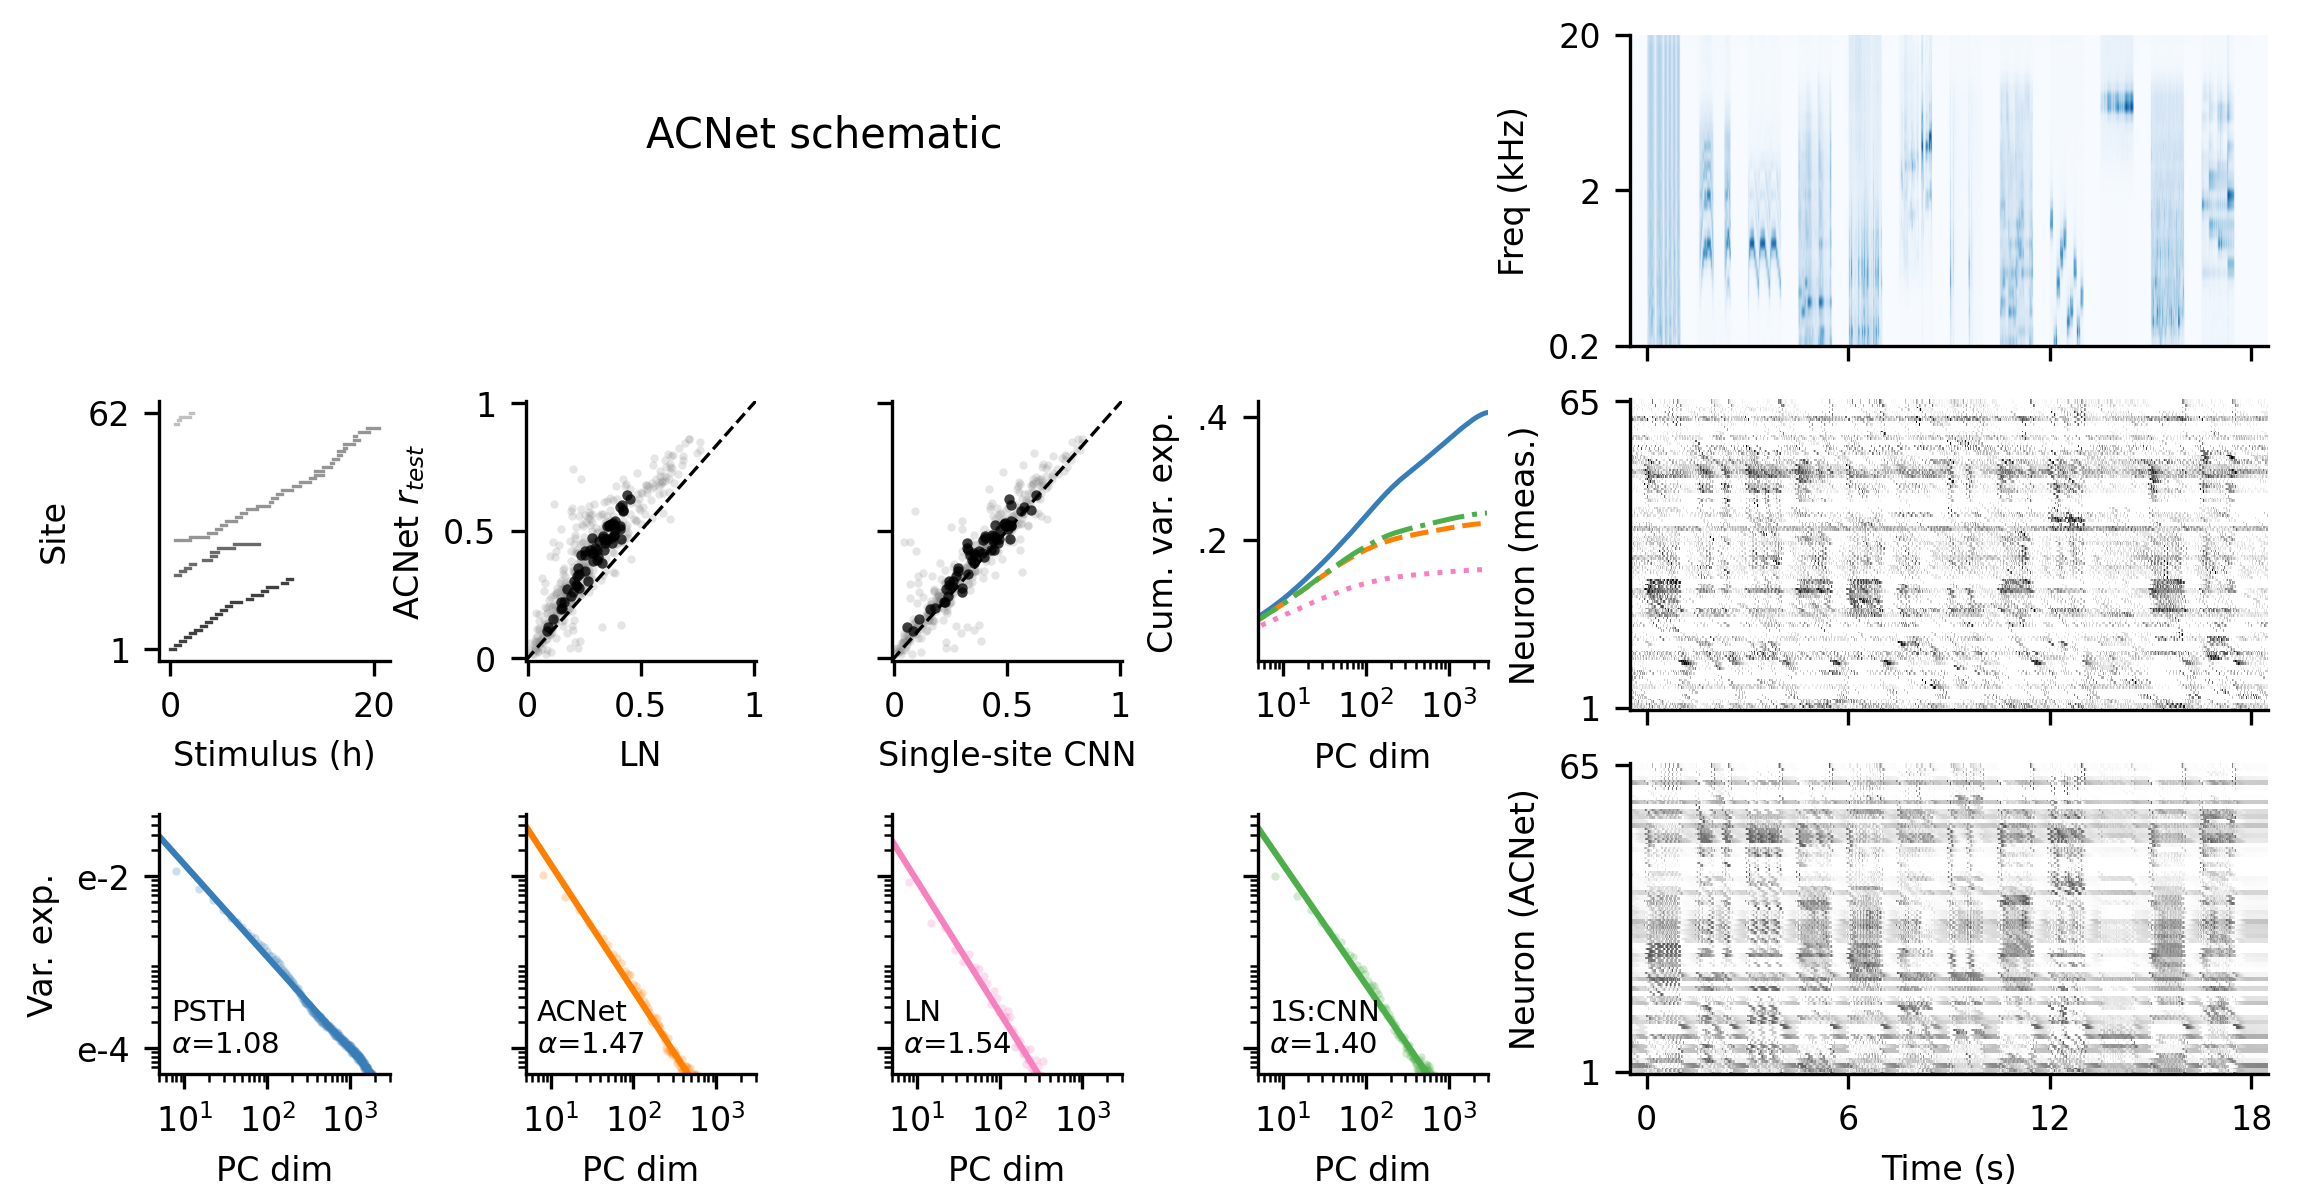
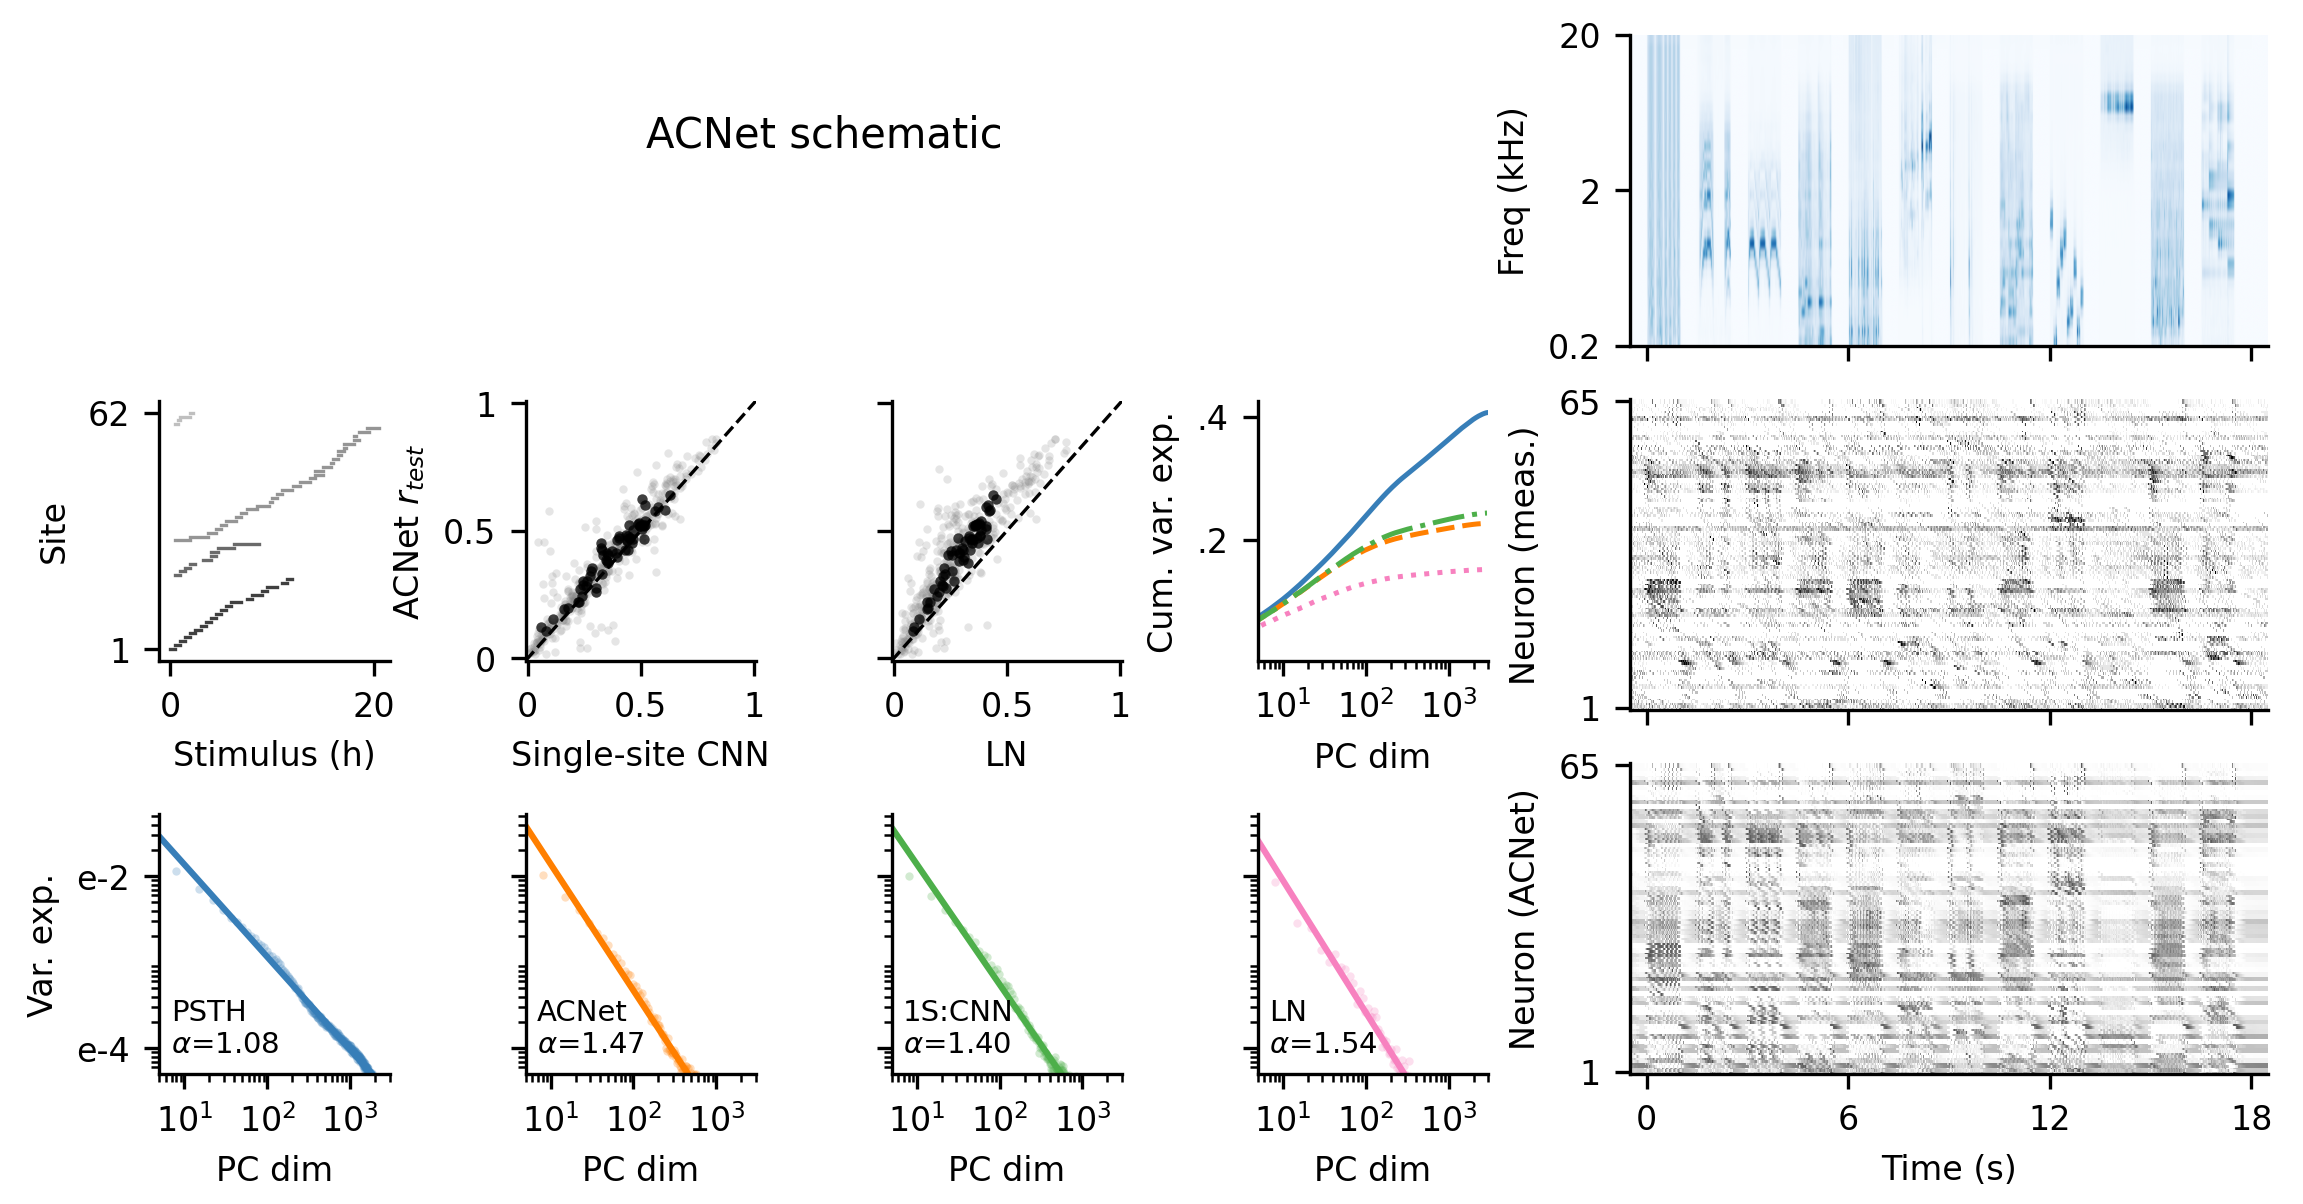
Fig1: order the baseline panels CNN then LN, as in the manuscript
Swaps the single-site CNN and LN panels in both the r_test row and the
power-law row. The ACNet r_test y-label moves to whichever of the pair is now
leftmost; colours still track the model, not the position.

Claude-Session: https://claude.ai/code/session_01XjWeMXuc2q8dYeNcnzyg3T

diff --git a/manuscript/fig1.py b/manuscript/fig1.py
@@ -165,9 +165,9 @@ demo_x = left_x[3] + PANEL_W_CM + BLOCK_GAP_CM
 
 ax_schema = add_axes_cm(fig, left_x[0], row_schema_y,
                         4 * PANEL_W_CM + 3 * GAP_X_CM, SCHEMA_H_CM)
-ax_coverage, ax_rtest_ln, ax_rtest_cnn, ax_cumvar = [
+ax_coverage, ax_rtest_cnn, ax_rtest_ln, ax_cumvar = [
     add_axes_cm(fig, x, row_summary_y, PANEL_W_CM, PANEL_H_CM) for x in left_x]
-ax_pca_neural, ax_pca_multisite, ax_pca_ln, ax_pca_cnn = [
+ax_pca_neural, ax_pca_multisite, ax_pca_cnn, ax_pca_ln = [
     add_axes_cm(fig, x, row_pca_y, PANEL_W_CM, PANEL_H_CM) for x in left_x]
 ax_demo_gtg, ax_demo_true, ax_demo_pred = [
     add_axes_cm(fig, demo_x, FIG_H_CM - MARGIN_T_CM - (i + 1) * DEMO_H_CM - i * DEMO_GAP_Y_CM,
@@ -196,10 +196,10 @@ SKIP_N = rtest['skip_n']
 MRK = 4
 rtest_ticks, rtest_lim = [0, .5, 1], [-0.01, 1.01]
 for ax, base, base_mu, resnet, resnet_mu, xlabel in [
-        (ax_rtest_ln, rtest['ln'], rtest['ln_site_mu'], rtest['ln_matched_resnet'],
-         rtest['ln_site_mu_resnet'], 'LN'),
         (ax_rtest_cnn, rtest['cnn'], rtest['cnn_site_mu'], rtest['cnn_matched_resnet'],
-         rtest['cnn_site_mu_resnet'], 'Single-site CNN')]:
+         rtest['cnn_site_mu_resnet'], 'Single-site CNN'),
+        (ax_rtest_ln, rtest['ln'], rtest['ln_site_mu'], rtest['ln_matched_resnet'],
+         rtest['ln_site_mu_resnet'], 'LN')]:
     ax.plot(base[::SKIP_N], resnet[::SKIP_N], alpha=.2, marker='.', linestyle='none',
             markersize=MRK, markeredgecolor='none', markerfacecolor='gray')
     ax.plot(base_mu, resnet_mu, alpha=.75, marker='.', linestyle='none',
@@ -208,8 +208,8 @@ for ax, base, base_mu, resnet, resnet_mu, xlabel in [
     ax.set(xlim=rtest_lim, ylim=rtest_lim, xlabel=xlabel,
            xticks=rtest_ticks, yticks=rtest_ticks,
            xticklabels=['0', '0.5', '1'], yticklabels=['0', '0.5', '1'])
-ax_rtest_ln.set(ylabel='ACNet $r_{test}$')
-ax_rtest_cnn.set(yticklabels=[])
+ax_rtest_cnn.set(ylabel='ACNet $r_{test}$')   # leftmost of the pair
+ax_rtest_ln.set(yticklabels=[])
 
 # ---- cumulative variance explained ---------------------------------------- #
 ndims = cvpca['ndims']
@@ -226,8 +226,8 @@ p_data_neural = cvpca['neural']['p_data']
 ylim_ve = p_data_neural.max() * np.array([1e-3, 1.05])
 for ax, tag, key, label in [(ax_pca_neural, 'neural', 'neural', 'PSTH'),
                             (ax_pca_multisite, 'multisite', 'resnet', 'ACNet'),
-                            (ax_pca_ln, 'ln', 'LNmodel', 'LN'),
-                            (ax_pca_cnn, 'cnnfull', 'CNNfull', '1S:CNN')]:
+                            (ax_pca_cnn, 'cnnfull', 'CNNfull', '1S:CNN'),
+                            (ax_pca_ln, 'ln', 'LNmodel', 'LN')]:
     ax.plot(ndims[::SKIP_N], cvpca[key]['p_data'][::SKIP_N], marker='.', linestyle='none',
             markersize=MRK, alpha=.25, markeredgecolor='none', markerfacecolor=COL[tag])
     ax.plot(ndims, cvpca[key]['p_fit'], c=COL[tag], linestyle='-', lw=1.5)
